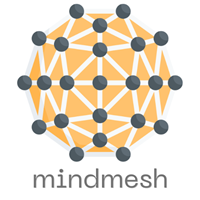
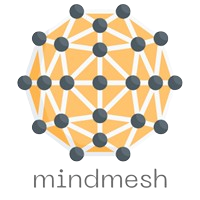
deploy: dfdb0b1a2b58a523e7dfeebb22574192c2d6a28b

diff --git a/content/markdown-notebooks.html b/content/markdown-notebooks.html
@@ -157,7 +157,7 @@ const thebe_selector_output = ".output, .cell_output"
     
     
     <img src="../_static/mindmesh.png" class="logo__image only-light" alt="Mindmesh - Home"/>
-    <script>document.write(`<img src="../_static/mindmesh.png" class="logo__image only-dark" alt="Mindmesh - Home"/>`);</script>
+    <script>document.write(`<img src="../_static/mindmesh-dark.png" class="logo__image only-dark" alt="Mindmesh - Home"/>`);</script>
   
   
 </a></div>

diff --git a/content/markdown.html b/content/markdown.html
@@ -157,7 +157,7 @@ const thebe_selector_output = ".output, .cell_output"
     
     
     <img src="../_static/mindmesh.png" class="logo__image only-light" alt="Mindmesh - Home"/>
-    <script>document.write(`<img src="../_static/mindmesh.png" class="logo__image only-dark" alt="Mindmesh - Home"/>`);</script>
+    <script>document.write(`<img src="../_static/mindmesh-dark.png" class="logo__image only-dark" alt="Mindmesh - Home"/>`);</script>
   
   
 </a></div>

diff --git a/content/mymarkdown.html b/content/mymarkdown.html
@@ -156,7 +156,7 @@ const thebe_selector_output = ".output, .cell_output"
     
     
     <img src="../_static/mindmesh.png" class="logo__image only-light" alt="Mindmesh - Home"/>
-    <script>document.write(`<img src="../_static/mindmesh.png" class="logo__image only-dark" alt="Mindmesh - Home"/>`);</script>
+    <script>document.write(`<img src="../_static/mindmesh-dark.png" class="logo__image only-dark" alt="Mindmesh - Home"/>`);</script>
   
   
 </a></div>

diff --git a/content/notebooks.html b/content/notebooks.html
@@ -157,7 +157,7 @@ const thebe_selector_output = ".output, .cell_output"
     
     
     <img src="../_static/mindmesh.png" class="logo__image only-light" alt="Mindmesh - Home"/>
-    <script>document.write(`<img src="../_static/mindmesh.png" class="logo__image only-dark" alt="Mindmesh - Home"/>`);</script>
+    <script>document.write(`<img src="../_static/mindmesh-dark.png" class="logo__image only-dark" alt="Mindmesh - Home"/>`);</script>
   
   
 </a></div>

diff --git a/genindex.html b/genindex.html
@@ -154,7 +154,7 @@ const thebe_selector_output = ".output, .cell_output"
     
     
     <img src="_static/mindmesh.png" class="logo__image only-light" alt="Mindmesh - Home"/>
-    <script>document.write(`<img src="_static/mindmesh.png" class="logo__image only-dark" alt="Mindmesh - Home"/>`);</script>
+    <script>document.write(`<img src="_static/mindmesh-dark.png" class="logo__image only-dark" alt="Mindmesh - Home"/>`);</script>
   
   
 </a></div>

diff --git a/intro.html b/intro.html
@@ -156,7 +156,7 @@ const thebe_selector_output = ".output, .cell_output"
     
     
     <img src="_static/mindmesh.png" class="logo__image only-light" alt="Mindmesh - Home"/>
-    <script>document.write(`<img src="_static/mindmesh.png" class="logo__image only-dark" alt="Mindmesh - Home"/>`);</script>
+    <script>document.write(`<img src="_static/mindmesh-dark.png" class="logo__image only-dark" alt="Mindmesh - Home"/>`);</script>
   
   
 </a></div>

diff --git a/search.html b/search.html
@@ -156,7 +156,7 @@ const thebe_selector_output = ".output, .cell_output"
     
     
     <img src="_static/mindmesh.png" class="logo__image only-light" alt="Mindmesh - Home"/>
-    <script>document.write(`<img src="_static/mindmesh.png" class="logo__image only-dark" alt="Mindmesh - Home"/>`);</script>
+    <script>document.write(`<img src="_static/mindmesh-dark.png" class="logo__image only-dark" alt="Mindmesh - Home"/>`);</script>
   
   
 </a></div>
